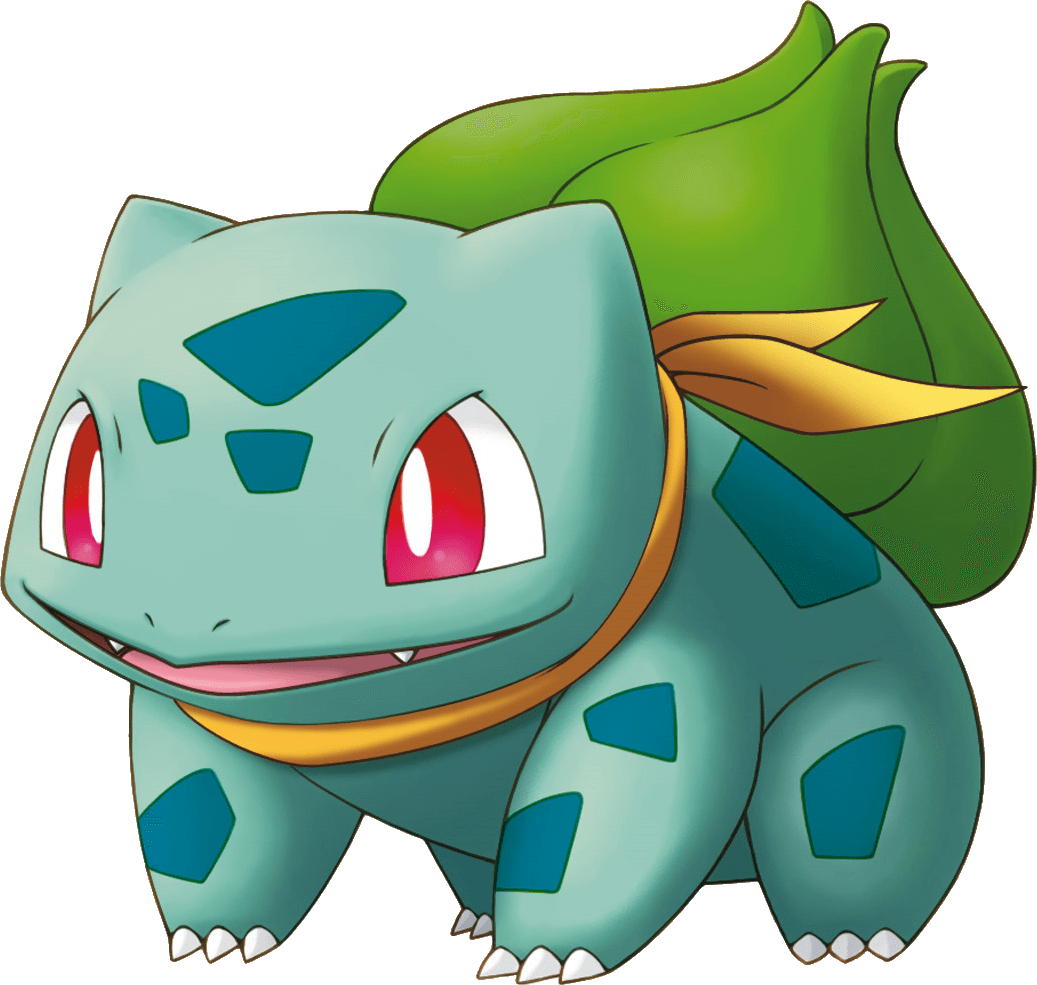
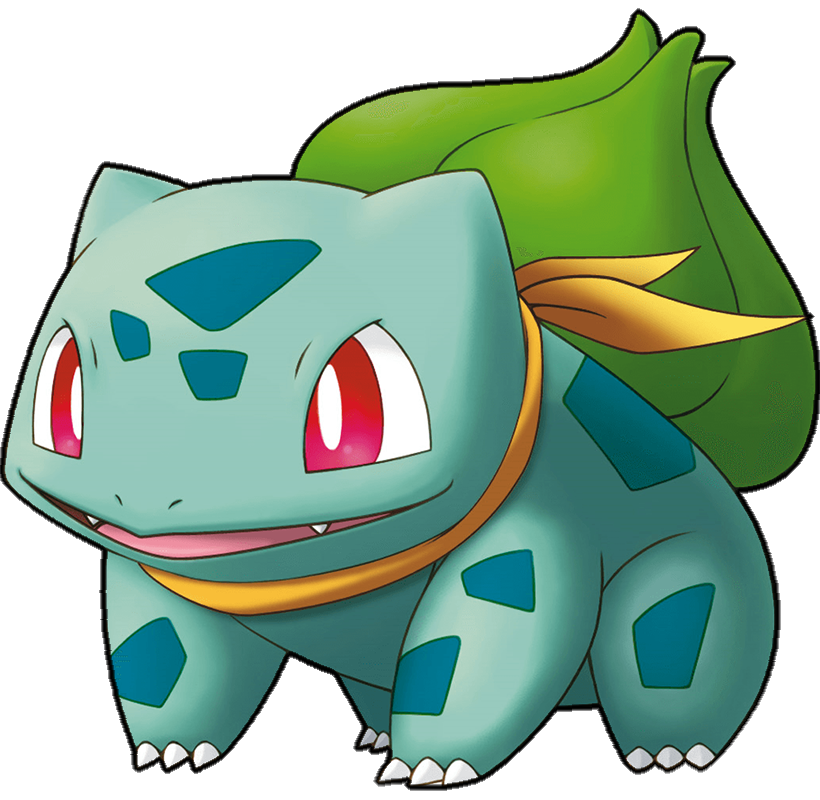
resize pokemons images, add a placeholder, verify when the round is equal to 0

diff --git a/assets/JS/script.js b/assets/JS/script.js
@@ -2,14 +2,21 @@ let player;
 let playerScore = 0;
 let opponent;
 let opponentScore = 0;
+let empty = "assets/images/empty.png";
 let bulbasaur = "assets/images/bulbasaur.png";
 let charmander = "assets/images/charmander.png";
 let squirtle = "assets/images/squirtle.png";
 let pokeball = "assets/images/pokeball.png";
 
+let gameEnded = false;
+
 let cards = [bulbasaur, charmander, squirtle];
 
-window.onload = function () {
+window.onload = function startGame() {
+    //Placeholder
+    document.getElementById("player-choice").src = empty;
+    document.getElementById("opponent-choice").src = empty;
+
     //Creat Cards options
     for (let i = 0; i < 3; i++) {
         let card = document.createElement("img");
@@ -82,7 +89,10 @@ function selectCard() {
     let rounds = document.querySelectorAll("#pokeballs img");
     if (rounds.length > 0) {
         document.getElementById("pokeballs").removeChild(rounds[0]);
-    } else {
+    }
+
+    //Check if there are no more rounds left
+    if (rounds.length === 0) {
         // Restart the game
         let resultMessage = "Looks like it's a tie, Trainer!";
         if (playerScore > opponentScore) {
@@ -93,11 +103,17 @@ function selectCard() {
 
         alert(resultMessage);
 
+        gameEnded = true;
+
         // Reset the scores to 0
         playerScore = 0;
         opponentScore = 0;
         document.getElementById("player-score").innerText = playerScore;
         document.getElementById("opponent-score").innerText = opponentScore;
+
+        // Reset player and opponent choices to the placeholder image
+        document.getElementById("player-choice").src = empty;
+        document.getElementById("opponent-choice").src = empty;
 
         // Re-add round elements
         for (let j = 0; j < 5; j++) {
